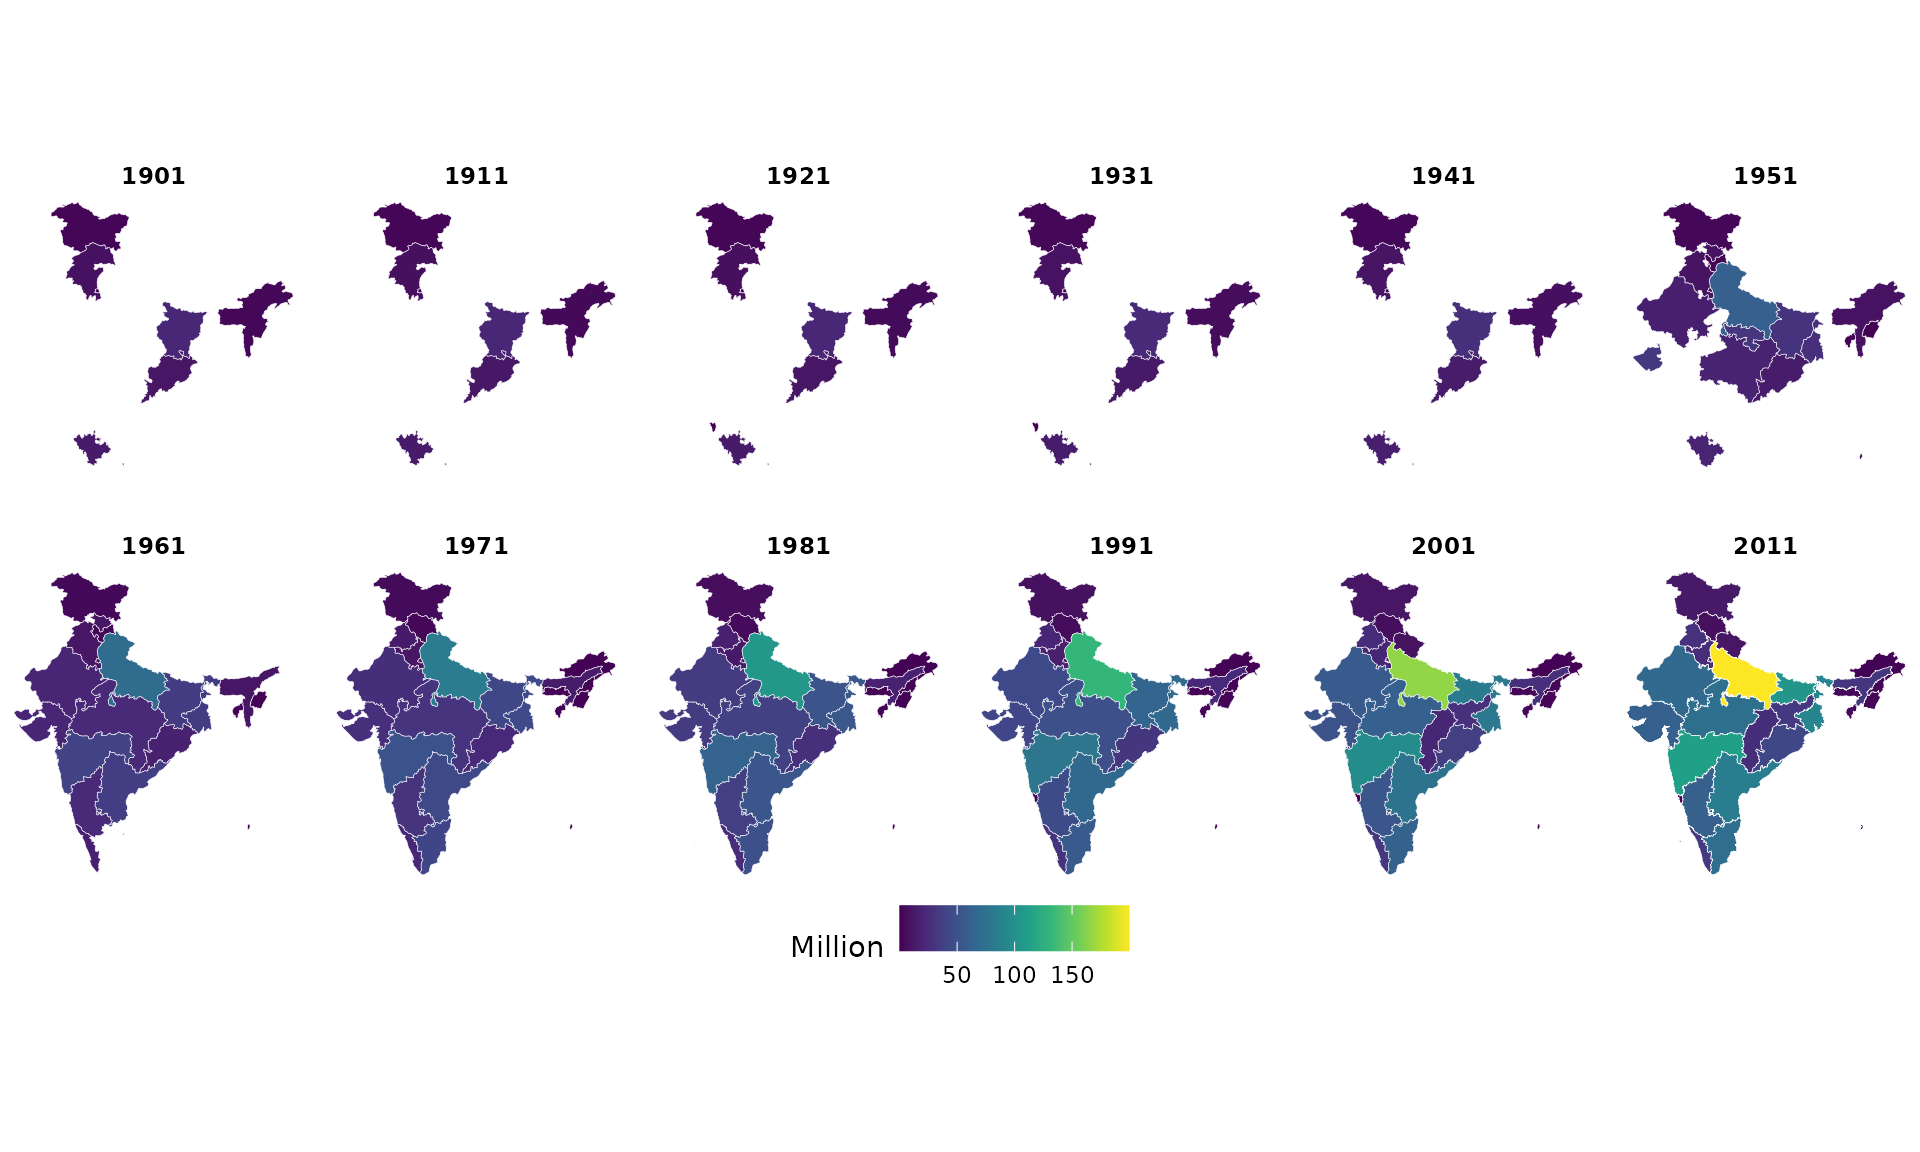
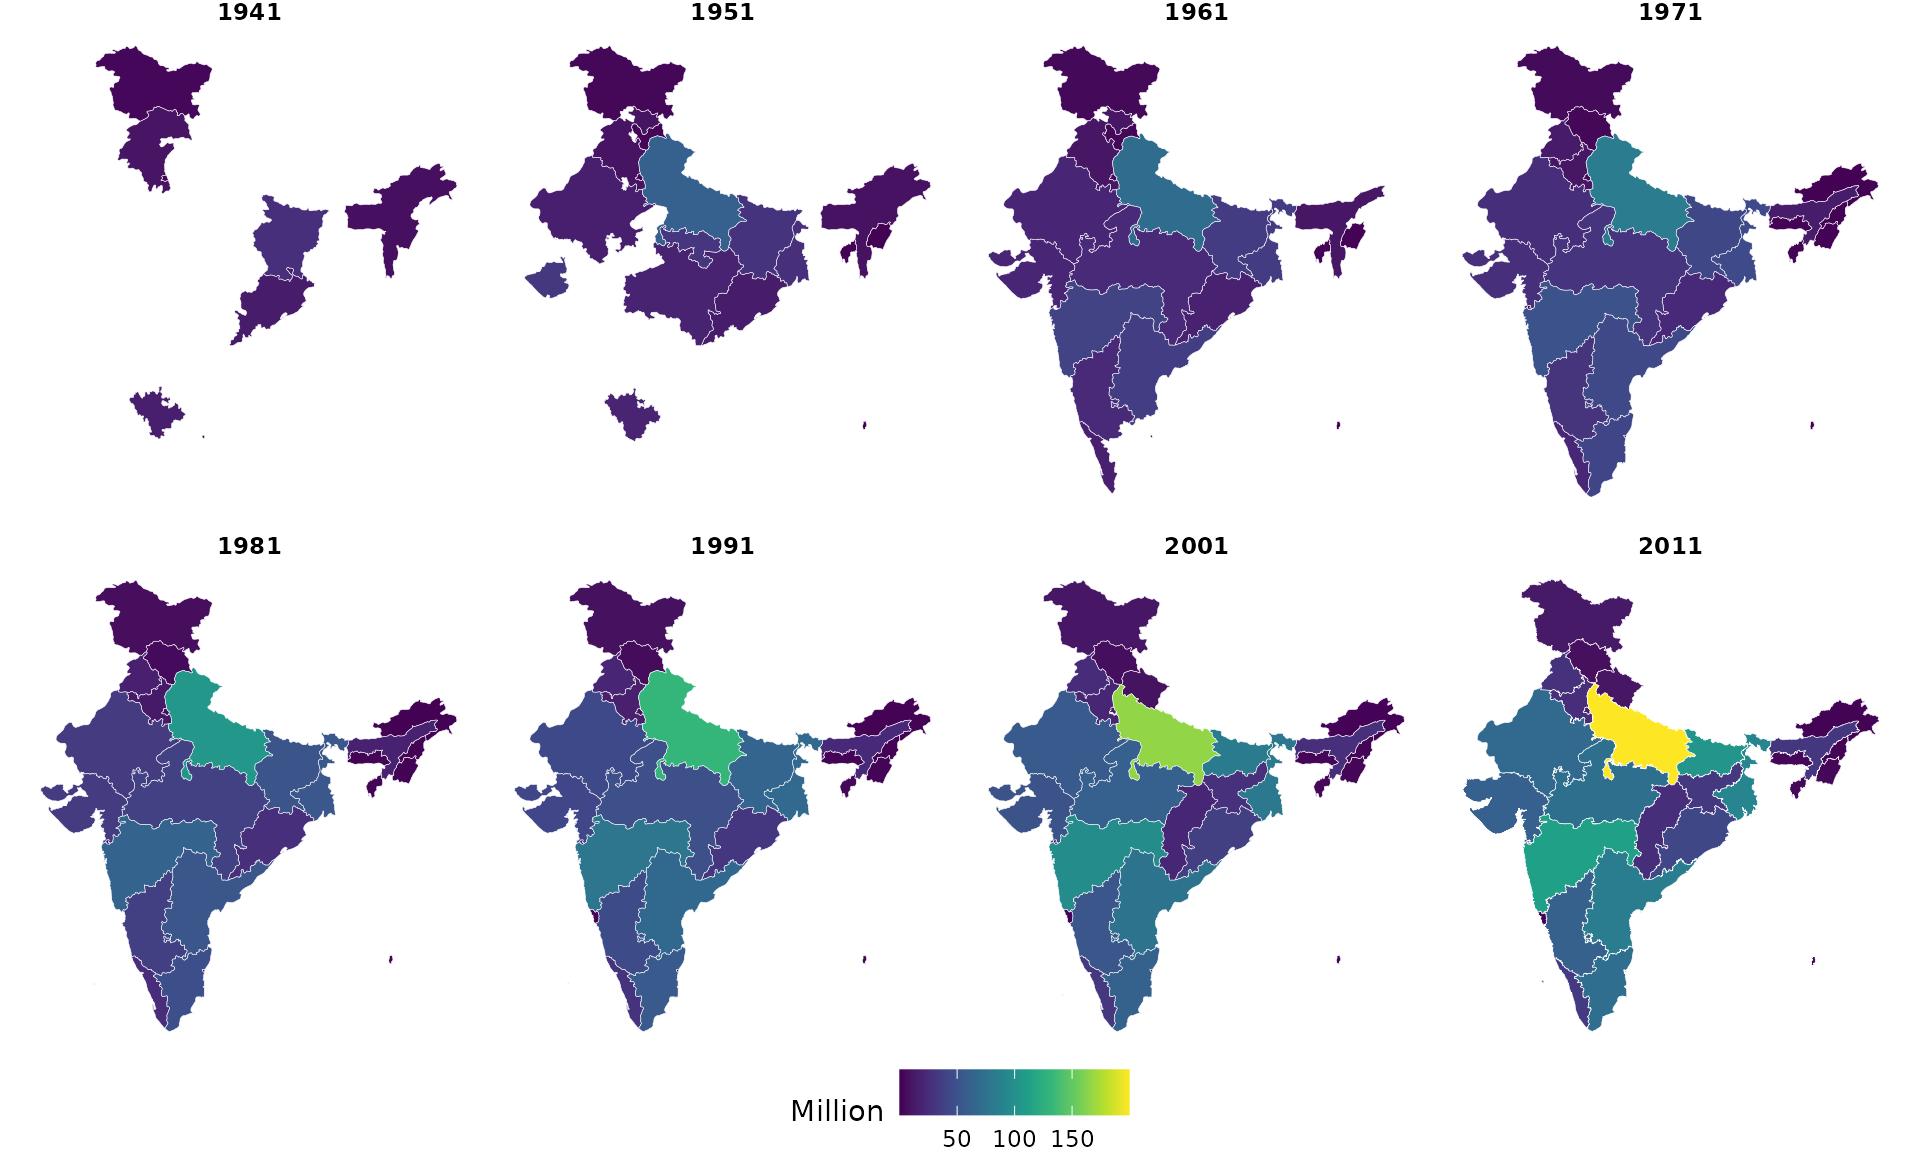
Deploying to gh-pages from @ saketlab/indiacensus@e97f7ee482d9bdbe232e13ce151930620ac4400a 🚀

diff --git a/articles/population-maps.html b/articles/population-maps.html
@@ -129,21 +129,13 @@
 <h2 id="state-population-over-time">State Population Over Time<a class="anchor" aria-label="anchor" href="#state-population-over-time"></a>
 </h2>
 <div class="sourceCode" id="cb2"><pre class="downlit sourceCode r">
-<code class="sourceCode R"><span><span class="va">years</span> <span class="op">&lt;-</span> <span class="fu"><a href="https://rdrr.io/r/base/seq.html" class="external-link">seq</a></span><span class="op">(</span><span class="fl">1901</span>, <span class="fl">2011</span>, by <span class="op">=</span> <span class="fl">10</span><span class="op">)</span></span>
+<code class="sourceCode R"><span><span class="va">years</span> <span class="op">&lt;-</span> <span class="fu"><a href="https://rdrr.io/r/base/c.html" class="external-link">c</a></span><span class="op">(</span><span class="fl">1941</span>, <span class="fl">1951</span>, <span class="fl">1961</span>, <span class="fl">1971</span>, <span class="fl">1981</span>, <span class="fl">1991</span>, <span class="fl">2001</span>, <span class="fl">2011</span><span class="op">)</span></span>
 <span></span>
 <span><span class="va">pop_geo</span> <span class="op">&lt;-</span> <span class="fu"><a href="https://rdrr.io/r/base/lapply.html" class="external-link">lapply</a></span><span class="op">(</span><span class="va">years</span>, <span class="kw">function</span><span class="op">(</span><span class="va">y</span><span class="op">)</span> <span class="op">{</span></span>
 <span>  <span class="va">census_population_time_series</span> <span class="op">|&gt;</span></span>
 <span>    <span class="fu"><a href="https://dplyr.tidyverse.org/reference/filter.html" class="external-link">filter</a></span><span class="op">(</span><span class="va">geography</span> <span class="op">==</span> <span class="st">"state"</span>, <span class="va">year</span> <span class="op">==</span> <span class="va">y</span><span class="op">)</span> <span class="op">|&gt;</span></span>
 <span>    <span class="fu"><a href="../reference/attach_geometry.html">attach_geometry</a></span><span class="op">(</span>year <span class="op">=</span> <span class="va">y</span>, geography <span class="op">=</span> <span class="st">"state"</span><span class="op">)</span></span>
-<span><span class="op">}</span><span class="op">)</span> <span class="op">|&gt;</span> <span class="fu"><a href="https://dplyr.tidyverse.org/reference/bind_rows.html" class="external-link">bind_rows</a></span><span class="op">(</span><span class="op">)</span></span>
-<span><span class="co">#&gt; Warning: Exact boundaries for <span style="color: #0000BB;">1901</span> not available.</span></span>
-<span><span class="co">#&gt; <span style="color: #00BBBB;">ℹ</span> Using <span style="color: #0000BB;">1941</span> boundaries instead.</span></span>
-<span><span class="co">#&gt; Warning: Exact boundaries for <span style="color: #0000BB;">1911</span> not available.</span></span>
-<span><span class="co">#&gt; <span style="color: #00BBBB;">ℹ</span> Using <span style="color: #0000BB;">1941</span> boundaries instead.</span></span>
-<span><span class="co">#&gt; Warning: Exact boundaries for <span style="color: #0000BB;">1921</span> not available.</span></span>
-<span><span class="co">#&gt; <span style="color: #00BBBB;">ℹ</span> Using <span style="color: #0000BB;">1941</span> boundaries instead.</span></span>
-<span><span class="co">#&gt; Warning: Exact boundaries for <span style="color: #0000BB;">1931</span> not available.</span></span>
-<span><span class="co">#&gt; <span style="color: #00BBBB;">ℹ</span> Using <span style="color: #0000BB;">1941</span> boundaries instead.</span></span></code></pre></div>
+<span><span class="op">}</span><span class="op">)</span> <span class="op">|&gt;</span> <span class="fu"><a href="https://dplyr.tidyverse.org/reference/bind_rows.html" class="external-link">bind_rows</a></span><span class="op">(</span><span class="op">)</span></span></code></pre></div>
 <div class="sourceCode" id="cb3"><pre class="downlit sourceCode r">
 <code class="sourceCode R"><span><span class="fu"><a href="https://ggplot2.tidyverse.org/reference/ggplot.html" class="external-link">ggplot</a></span><span class="op">(</span><span class="va">pop_geo</span><span class="op">)</span> <span class="op">+</span></span>
 <span>  <span class="fu"><a href="https://ggplot2.tidyverse.org/reference/ggsf.html" class="external-link">geom_sf</a></span><span class="op">(</span><span class="fu"><a href="https://ggplot2.tidyverse.org/reference/aes.html" class="external-link">aes</a></span><span class="op">(</span>fill <span class="op">=</span> <span class="va">population</span> <span class="op">/</span> <span class="fl">1e6</span><span class="op">)</span>, color <span class="op">=</span> <span class="st">"white"</span>, linewidth <span class="op">=</span> <span class="fl">0.1</span><span class="op">)</span> <span class="op">+</span></span>
@@ -157,41 +149,23 @@
 <h2 id="decadal-growth-rate">Decadal Growth Rate<a class="anchor" aria-label="anchor" href="#decadal-growth-rate"></a>
 </h2>
 <div class="sourceCode" id="cb4"><pre class="downlit sourceCode r">
-<code class="sourceCode R"><span><span class="va">pop</span> <span class="op">&lt;-</span> <span class="va">census_population_time_series</span> <span class="op">|&gt;</span></span>
+<code class="sourceCode R"><span><span class="va">growth_years</span> <span class="op">&lt;-</span> <span class="fu"><a href="https://rdrr.io/r/base/c.html" class="external-link">c</a></span><span class="op">(</span><span class="fl">1951</span>, <span class="fl">1961</span>, <span class="fl">1971</span>, <span class="fl">1981</span>, <span class="fl">1991</span>, <span class="fl">2001</span>, <span class="fl">2011</span><span class="op">)</span></span>
+<span></span>
+<span><span class="va">pop</span> <span class="op">&lt;-</span> <span class="va">census_population_time_series</span> <span class="op">|&gt;</span></span>
 <span>  <span class="fu"><a href="https://dplyr.tidyverse.org/reference/filter.html" class="external-link">filter</a></span><span class="op">(</span><span class="va">geography</span> <span class="op">==</span> <span class="st">"state"</span><span class="op">)</span> <span class="op">|&gt;</span></span>
 <span>  <span class="fu"><a href="https://dplyr.tidyverse.org/reference/arrange.html" class="external-link">arrange</a></span><span class="op">(</span><span class="va">state_name</span>, <span class="va">year</span><span class="op">)</span></span>
 <span></span>
 <span><span class="va">growth</span> <span class="op">&lt;-</span> <span class="va">pop</span> <span class="op">|&gt;</span></span>
 <span>  <span class="fu"><a href="https://dplyr.tidyverse.org/reference/group_by.html" class="external-link">group_by</a></span><span class="op">(</span><span class="va">state_name</span><span class="op">)</span> <span class="op">|&gt;</span></span>
 <span>  <span class="fu"><a href="https://dplyr.tidyverse.org/reference/mutate.html" class="external-link">mutate</a></span><span class="op">(</span>growth_rate <span class="op">=</span> <span class="fl">100</span> <span class="op">*</span> <span class="op">(</span><span class="va">population</span> <span class="op">-</span> <span class="fu"><a href="https://dplyr.tidyverse.org/reference/lead-lag.html" class="external-link">lag</a></span><span class="op">(</span><span class="va">population</span><span class="op">)</span><span class="op">)</span> <span class="op">/</span> <span class="fu"><a href="https://dplyr.tidyverse.org/reference/lead-lag.html" class="external-link">lag</a></span><span class="op">(</span><span class="va">population</span><span class="op">)</span><span class="op">)</span> <span class="op">|&gt;</span></span>
-<span>  <span class="fu"><a href="https://dplyr.tidyverse.org/reference/filter.html" class="external-link">filter</a></span><span class="op">(</span><span class="op">!</span><span class="fu"><a href="https://rdrr.io/r/base/NA.html" class="external-link">is.na</a></span><span class="op">(</span><span class="va">growth_rate</span><span class="op">)</span><span class="op">)</span> <span class="op">|&gt;</span></span>
+<span>  <span class="fu"><a href="https://dplyr.tidyverse.org/reference/filter.html" class="external-link">filter</a></span><span class="op">(</span><span class="op">!</span><span class="fu"><a href="https://rdrr.io/r/base/NA.html" class="external-link">is.na</a></span><span class="op">(</span><span class="va">growth_rate</span><span class="op">)</span>, <span class="va">year</span> <span class="op"><a href="https://rdrr.io/r/base/match.html" class="external-link">%in%</a></span> <span class="va">growth_years</span><span class="op">)</span> <span class="op">|&gt;</span></span>
 <span>  <span class="fu"><a href="https://dplyr.tidyverse.org/reference/group_by.html" class="external-link">ungroup</a></span><span class="op">(</span><span class="op">)</span></span>
 <span></span>
-<span><span class="va">growth_geo</span> <span class="op">&lt;-</span> <span class="fu"><a href="https://rdrr.io/r/base/lapply.html" class="external-link">lapply</a></span><span class="op">(</span><span class="fu"><a href="https://rdrr.io/r/base/unique.html" class="external-link">unique</a></span><span class="op">(</span><span class="va">growth</span><span class="op">$</span><span class="va">year</span><span class="op">)</span>, <span class="kw">function</span><span class="op">(</span><span class="va">y</span><span class="op">)</span> <span class="op">{</span></span>
+<span><span class="va">growth_geo</span> <span class="op">&lt;-</span> <span class="fu"><a href="https://rdrr.io/r/base/lapply.html" class="external-link">lapply</a></span><span class="op">(</span><span class="va">growth_years</span>, <span class="kw">function</span><span class="op">(</span><span class="va">y</span><span class="op">)</span> <span class="op">{</span></span>
 <span>  <span class="va">growth</span> <span class="op">|&gt;</span></span>
 <span>    <span class="fu"><a href="https://dplyr.tidyverse.org/reference/filter.html" class="external-link">filter</a></span><span class="op">(</span><span class="va">year</span> <span class="op">==</span> <span class="va">y</span><span class="op">)</span> <span class="op">|&gt;</span></span>
 <span>    <span class="fu"><a href="../reference/attach_geometry.html">attach_geometry</a></span><span class="op">(</span>year <span class="op">=</span> <span class="va">y</span>, geography <span class="op">=</span> <span class="st">"state"</span><span class="op">)</span></span>
-<span><span class="op">}</span><span class="op">)</span> <span class="op">|&gt;</span> <span class="fu"><a href="https://dplyr.tidyverse.org/reference/bind_rows.html" class="external-link">bind_rows</a></span><span class="op">(</span><span class="op">)</span></span>
-<span><span class="co">#&gt; Warning: Exact boundaries for <span style="color: #0000BB;">1911</span> not available.</span></span>
-<span><span class="co">#&gt; <span style="color: #00BBBB;">ℹ</span> Using <span style="color: #0000BB;">1941</span> boundaries instead.</span></span>
-<span><span class="co">#&gt; Warning: Exact boundaries for <span style="color: #0000BB;">1921</span> not available.</span></span>
-<span><span class="co">#&gt; <span style="color: #00BBBB;">ℹ</span> Using <span style="color: #0000BB;">1941</span> boundaries instead.</span></span>
-<span><span class="co">#&gt; Warning: Exact boundaries for <span style="color: #0000BB;">1931</span> not available.</span></span>
-<span><span class="co">#&gt; <span style="color: #00BBBB;">ℹ</span> Using <span style="color: #0000BB;">1941</span> boundaries instead.</span></span>
-<span><span class="co">#&gt; Warning: Exact boundaries for <span style="color: #0000BB;">1910</span> not available.</span></span>
-<span><span class="co">#&gt; <span style="color: #00BBBB;">ℹ</span> Using <span style="color: #0000BB;">1941</span> boundaries instead.</span></span>
-<span><span class="co">#&gt; Warning: Exact boundaries for <span style="color: #0000BB;">1940</span> not available.</span></span>
-<span><span class="co">#&gt; <span style="color: #00BBBB;">ℹ</span> Using <span style="color: #0000BB;">1941</span> boundaries instead.</span></span>
-<span><span class="co">#&gt; Warning: Exact boundaries for <span style="color: #0000BB;">1950</span> not available.</span></span>
-<span><span class="co">#&gt; <span style="color: #00BBBB;">ℹ</span> Using <span style="color: #0000BB;">1951</span> boundaries instead.</span></span>
-<span><span class="co">#&gt; Warning: Exact boundaries for <span style="color: #0000BB;">1962</span> not available.</span></span>
-<span><span class="co">#&gt; <span style="color: #00BBBB;">ℹ</span> Using <span style="color: #0000BB;">1961</span> boundaries instead.</span></span>
-<span><span class="co">#&gt; Warning: Exact boundaries for <span style="color: #0000BB;">1960</span> not available.</span></span>
-<span><span class="co">#&gt; <span style="color: #00BBBB;">ℹ</span> Using <span style="color: #0000BB;">1961</span> boundaries instead.</span></span>
-<span><span class="co">#&gt; Warning: Exact boundaries for <span style="color: #0000BB;">2021</span> not available.</span></span>
-<span><span class="co">#&gt; <span style="color: #00BBBB;">ℹ</span> Using <span style="color: #0000BB;">2011</span> boundaries instead.</span></span>
-<span><span class="co">#&gt; Warning: Exact boundaries for <span style="color: #0000BB;">1948</span> not available.</span></span>
-<span><span class="co">#&gt; <span style="color: #00BBBB;">ℹ</span> Using <span style="color: #0000BB;">1951</span> boundaries instead.</span></span></code></pre></div>
+<span><span class="op">}</span><span class="op">)</span> <span class="op">|&gt;</span> <span class="fu"><a href="https://dplyr.tidyverse.org/reference/bind_rows.html" class="external-link">bind_rows</a></span><span class="op">(</span><span class="op">)</span></span></code></pre></div>
 <div class="sourceCode" id="cb5"><pre class="downlit sourceCode r">
 <code class="sourceCode R"><span><span class="fu"><a href="https://ggplot2.tidyverse.org/reference/ggplot.html" class="external-link">ggplot</a></span><span class="op">(</span><span class="va">growth_geo</span><span class="op">)</span> <span class="op">+</span></span>
 <span>  <span class="fu"><a href="https://ggplot2.tidyverse.org/reference/ggsf.html" class="external-link">geom_sf</a></span><span class="op">(</span><span class="fu"><a href="https://ggplot2.tidyverse.org/reference/aes.html" class="external-link">aes</a></span><span class="op">(</span>fill <span class="op">=</span> <span class="va">growth_rate</span><span class="op">)</span>, color <span class="op">=</span> <span class="st">"white"</span>, linewidth <span class="op">=</span> <span class="fl">0.1</span><span class="op">)</span> <span class="op">+</span></span>

diff --git a/articles/population-maps.md b/articles/population-maps.md
@@ -17,21 +17,13 @@ library(ggplot2)
 ## State Population Over Time
 
 ``` r
-years <- seq(1901, 2011, by = 10)
+years <- c(1941, 1951, 1961, 1971, 1981, 1991, 2001, 2011)
 
 pop_geo <- lapply(years, function(y) {
   census_population_time_series |>
     filter(geography == "state", year == y) |>
     attach_geometry(year = y, geography = "state")
 }) |> bind_rows()
-#> Warning: Exact boundaries for 1901 not available.
-#> ℹ Using 1941 boundaries instead.
-#> Warning: Exact boundaries for 1911 not available.
-#> ℹ Using 1941 boundaries instead.
-#> Warning: Exact boundaries for 1921 not available.
-#> ℹ Using 1941 boundaries instead.
-#> Warning: Exact boundaries for 1931 not available.
-#> ℹ Using 1941 boundaries instead.
 ```
 
 ``` r
@@ -48,6 +40,8 @@ ggplot(pop_geo) +
 ## Decadal Growth Rate
 
 ``` r
+growth_years <- c(1951, 1961, 1971, 1981, 1991, 2001, 2011)
+
 pop <- census_population_time_series |>
   filter(geography == "state") |>
   arrange(state_name, year)
@@ -55,34 +49,14 @@ pop <- census_population_time_series |>
 growth <- pop |>
   group_by(state_name) |>
   mutate(growth_rate = 100 * (population - lag(population)) / lag(population)) |>
-  filter(!is.na(growth_rate)) |>
+  filter(!is.na(growth_rate), year %in% growth_years) |>
   ungroup()
 
-growth_geo <- lapply(unique(growth$year), function(y) {
+growth_geo <- lapply(growth_years, function(y) {
   growth |>
     filter(year == y) |>
     attach_geometry(year = y, geography = "state")
 }) |> bind_rows()
-#> Warning: Exact boundaries for 1911 not available.
-#> ℹ Using 1941 boundaries instead.
-#> Warning: Exact boundaries for 1921 not available.
-#> ℹ Using 1941 boundaries instead.
-#> Warning: Exact boundaries for 1931 not available.
-#> ℹ Using 1941 boundaries instead.
-#> Warning: Exact boundaries for 1910 not available.
-#> ℹ Using 1941 boundaries instead.
-#> Warning: Exact boundaries for 1940 not available.
-#> ℹ Using 1941 boundaries instead.
-#> Warning: Exact boundaries for 1950 not available.
-#> ℹ Using 1951 boundaries instead.
-#> Warning: Exact boundaries for 1962 not available.
-#> ℹ Using 1961 boundaries instead.
-#> Warning: Exact boundaries for 1960 not available.
-#> ℹ Using 1961 boundaries instead.
-#> Warning: Exact boundaries for 2021 not available.
-#> ℹ Using 2011 boundaries instead.
-#> Warning: Exact boundaries for 1948 not available.
-#> ℹ Using 1951 boundaries instead.
 ```
 
 ``` r
